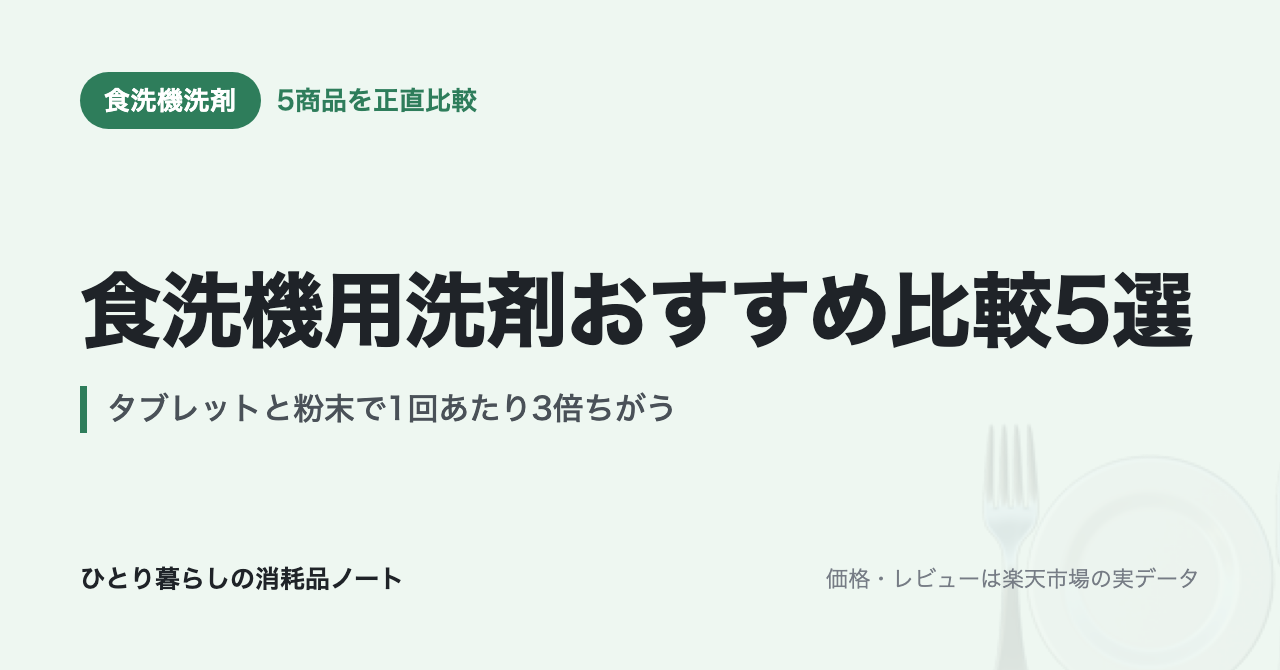
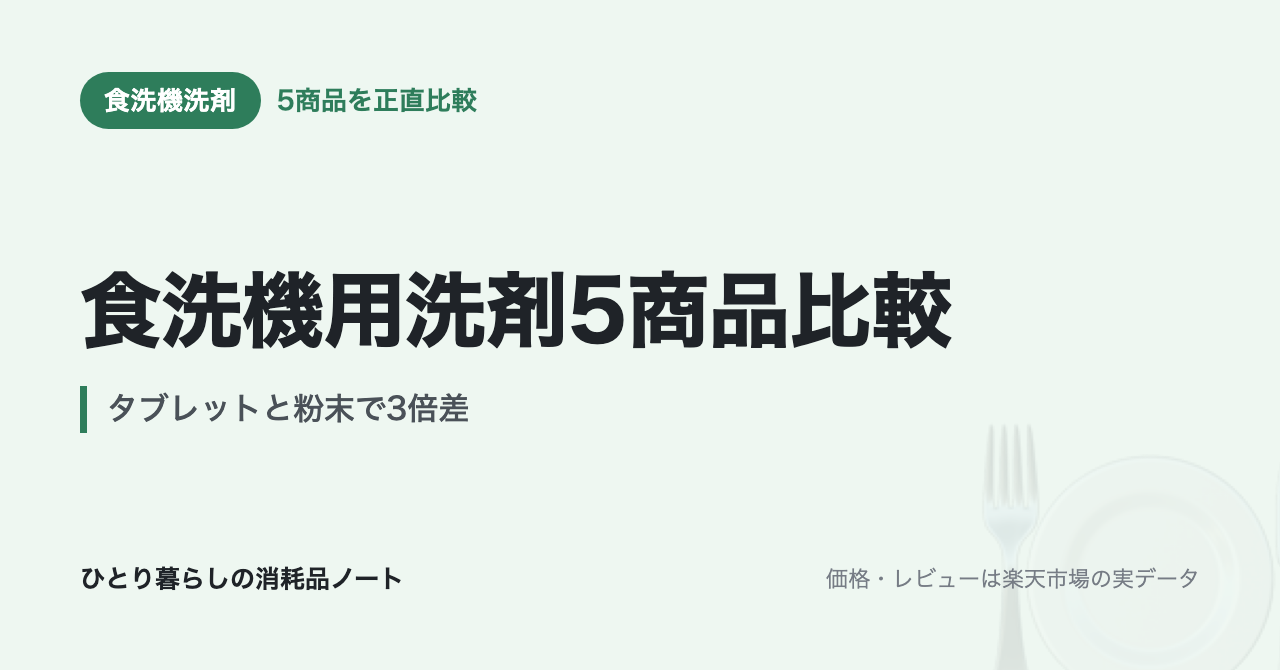
検査を2本立てにし、長すぎたタイトル7本を32字以内に詰める
AI感についての動画を見て、自分の記事を数え直した。分かったのは、問題が
個々の文ではなく均一さにあること。20本が同じ骨格・同じリズム・同じ強調密度で
書かれていた。

  「よくある質問」        20/20記事
  「この記事が役に立たない人」 19/20記事
  太字            平均9.0回/1000字（111字に1回）
  文末「…ります。」      16.8%（6文に1回が同じ終わり方）

「この記事が役に立たない人」は外部の添削で長所として評価された節だが、
19本に並んだ時点で誠実さの印ではなく型の印になっている。

これまでの検査は「言葉を探す検査」だけだった。アスタリスクの露出は1文で
判定できるが、上の4つは記事をまたいで数えないと見えない。そこで検査を
2本立てにした。

  1) 言葉を探す検査 … 落ちたらビルドを止める
       アスタリスクの露出／タイトル32字超
  2) 全体を数える検査 … 割合を出して警告する
       太字の密度／文末の偏り／「AではなくB」の型／見出しの使い回し／
       タイトルの数より比較表が少ない

タイトル32字はこれまで守れていない記事が7本あった。警告を出すだけでは
意味がないので先に直し、そのうえでエラーに格上げした。中身と数が
食い違っていないか、比較表と突き合わせてから変えている。

表の行数チェックは最初3件とも誤検出だった（プラン別・解約時期別の表を
拾っていた）。ルールごと消さず、「タイトルの数より表が少ないとき」だけに狭めた。
なお行数が合っていても中身が合っているとは限らない。「マウスウォッシュ6商品」と
書いて洗口液3＋フロス3を並べていたときは、行数は6で合っていた。

警告はルールごとにまとめ、悪い順に3件だけ出す。全部並べると40行を超えて
読まれなくなる。

Changed region(s): [[0.4375, 0.3881, 0.9375, 0.5373], [0.2812, 0.5672, 0.5312, 0.6269]]

diff --git a/pins/POST.md b/pins/POST.md
@@ -85,7 +85,7 @@
 
 ---
 
-## ドリップコーヒーおすすめ比較6選｜1杯あたりコストで選ぶ在宅ワークの一杯
+## ドリップコーヒー6商品比較｜1杯32円〜65円
 
 - ボード: **おうちコーヒー**
 - リンク先: https://hitorikurashi-note.vercel.app/articles/coffee-drip
@@ -94,11 +94,11 @@
 
 **タイトル**
 ```
-ドリップコーヒー 5件の1杯あたりコスト一覧
+ドリップコーヒー6商品比較 5件の1杯あたりコスト一覧
 ```
 **説明文**
 ```
-ドリップコーヒーを1杯あたりコストの安い順に並べました。UCC 職人の珈琲 スペシャルブレンド 約32円／澤井珈琲 2種飲み比べ 100袋 約44円／カフェ工房 有機栽培コーヒー 130袋 約46円／キーコーヒー ドリップオン 120杯分 約53円／辻本珈琲 デカフェ 3種100杯…。実際の価格とレビューをもとに比較しています。#ドリップコーヒー #おうちカフェ #在宅ワーク #コーヒー #節約
+ドリップコーヒー6商品比較を1杯あたりコストの安い順に並べました。UCC 職人の珈琲 スペシャルブレンド 約32円／澤井珈琲 2種飲み比べ 100袋 約44円／カフェ工房 有機栽培コーヒー 130袋 約46円／キーコーヒー ドリップオン 120杯分 約53円／辻本珈琲 デカフェ 3…。実際の価格とレビューをもとに比較しています。#ドリップコーヒー #おうちカフェ #在宅ワーク #コーヒー #節約
 ```
 
 ### [ ] 価格訴求（画像: `pins/coffee-drip-price.png`）
@@ -205,7 +205,7 @@
 
 ---
 
-## 食洗機用洗剤おすすめ比較5選｜タブレットと粉末で1回あたり3倍ちがう
+## 食洗機用洗剤5商品比較｜タブレットと粉末で3倍差
 
 - ボード: **キッチンの時短**
 - リンク先: https://hitorikurashi-note.vercel.app/articles/dishwasher-detergent
@@ -214,11 +214,11 @@
 
 **タイトル**
 ```
-食洗機用洗剤 4件の1回あたりコスト一覧
+食洗機用洗剤5商品比較 4件の1回あたりコスト一覧
 ```
 **説明文**
 ```
-食洗機用洗剤を1回あたりコストの安い順に並べました。ecostore オートディッシュウォッシュ パウダー 2kg 約7円／キュキュット 食洗機専用 粉末 800g×3 約8円／フィニッシュ ビッグパック 150個×3袋 約12円／フィニッシュ オールインワン 94個×2袋 約23円。実際の価格とレビューをもとに比較しています。#食洗機 #食洗機用洗剤 #時短家事 #キッチン #一人暮らし
+食洗機用洗剤5商品比較を1回あたりコストの安い順に並べました。ecostore オートディッシュウォッシュ パウダー 2kg 約7円／キュキュット 食洗機専用 粉末 800g×3 約8円／フィニッシュ ビッグパック 150個×3袋 約12円／フィニッシュ オールインワン 94個×2袋 約…。実際の価格とレビューをもとに比較しています。#食洗機 #食洗機用洗剤 #時短家事 #キッチン #一人暮らし
 ```
 
 ### [ ] 価格訴求（画像: `pins/dishwasher-detergent-price.png`）
@@ -229,7 +229,7 @@
 ```
 **説明文**
 ```
-食洗機用洗剤1回7円〜23円｜高いほうがよく落ちるわけではない。粉末は1回 約7〜8円。タブレットは 約12〜23円。差はほぼ「手間を省く分」。 実際の価格とレビューをもとに5商品を比較しました。#食洗機 #食洗機用洗剤 #時短家事 #キッチン #一人暮らし
+食洗機用洗剤1回7円〜23円｜高いほうがよく落ちるわけではない。粉末は1回 約7〜8円。タブレットは 約12〜23円。差はほぼ「手間を省く分」。 実際の価格とレビューをもとに6商品を比較しました。#食洗機 #食洗機用洗剤 #時短家事 #キッチン #一人暮らし
 ```
 
 ### [ ] 比較訴求（画像: `pins/dishwasher-detergent-compare.png`）
@@ -240,12 +240,12 @@
 ```
 **説明文**
 ```
-食洗機用洗剤5商品を正直比較｜フィニッシュ・キュキュット・ecostoreほか。1回あたりコストで比較。タブレットと粉末の違いも解説。向かない人も書いています。 実際の価格とレビューをもとに5商品を比較しました。#食洗機 #食洗機用洗剤 #時短家事 #キッチン #一人暮らし
+食洗機用洗剤5商品を正直比較｜フィニッシュ・キュキュット・ecostoreほか。1回あたりコストで比較。タブレットと粉末の違いも解説。向かない人も書いています。 実際の価格とレビューをもとに6商品を比較しました。#食洗機 #食洗機用洗剤 #時短家事 #キッチン #一人暮らし
 ```
 
 ---
 
-## 電動歯ブラシの替えブラシ比較6選｜同じ純正でも1本あたり3倍ちがう
+## 電動歯ブラシ替えブラシ6商品比較｜純正でも3倍差
 
 - ボード: **オーラルケアの選び方**
 - リンク先: https://hitorikurashi-note.vercel.app/articles/toothbrush-head
@@ -254,11 +254,11 @@
 
 **タイトル**
 ```
-電動歯ブラシの替えブラシ 6件の1本あたりコスト一覧
+電動歯ブラシ替えブラシ6商品比較 6件の1本あたりコスト一覧
 ```
 **説明文**
 ```
-電動歯ブラシの替えブラシを1本あたりコストの安い順に並べました。ソニッケアー ダイヤモンドクリーンミニ 互換 16本 約202円／ブラウン オーラルB EB50RX-10 マルチアクション 10本 約428円／パナソニック ドルツ EW0800-W 極細毛 6本 約450円／…。実際の価格とレビューをもとに比較しています。#電動歯ブラシ #替えブラシ #オーラルB #ソニッケアー #オーラルケア
+電動歯ブラシ替えブラシ6商品比較を1本あたりコストの安い順に並べました。ソニッケアー ダイヤモンドクリーンミニ 互換 16本 約202円／ブラウン オーラルB EB50RX-10 マルチアクション 10本 約428円／パナソニック ドルツ EW0800-W 極細毛 6本 約4…。実際の価格とレビューをもとに比較しています。#電動歯ブラシ #替えブラシ #オーラルB #ソニッケアー #オーラルケア
 ```
 
 ### [ ] 価格訴求（画像: `pins/toothbrush-head-price.png`）
@@ -325,7 +325,7 @@
 
 ---
 
-## 歯磨き粉おすすめ比較6選｜1回2.7円と21.9円、差はフッ素の量ではなかった
+## 歯磨き粉6商品比較｜1回2.7円と21.9円、差はフッ素ではない
 
 - ボード: **オーラルケアの選び方**
 - リンク先: https://hitorikurashi-note.vercel.app/articles/toothpaste
@@ -334,11 +334,11 @@
 
 **タイトル**
 ```
-歯磨き粉 6件の1回あたりコスト一覧
+歯磨き粉6商品比較 6件の1回あたりコスト一覧
 ```
 **説明文**
 ```
-歯磨き粉を1回あたりコストの安い順に並べました。クリニカ アドバンテージ クールミント 130g×3 約2.7円／ガム デンタルペースト 120g×3 約3.3円／クリアクリーン プレミアム 美白 160g×3 約6.5円／シュミテクト 歯周病ケア 100g×5 約8.0円／コンクール …。実際の価格とレビューをもとに比較しています。#歯磨き粉 #ハミガキ #オーラルケア #フッ素 #一人暮らし
+歯磨き粉6商品比較を1回あたりコストの安い順に並べました。クリニカ アドバンテージ クールミント 130g×3 約2.7円／ガム デンタルペースト 120g×3 約3.3円／クリアクリーン プレミアム 美白 160g×3 約6.5円／シュミテクト 歯周病ケア 100g×5 約8.0円／コ…。実際の価格とレビューをもとに比較しています。#歯磨き粉 #ハミガキ #オーラルケア #フッ素 #一人暮らし
 ```
 
 ### [ ] 価格訴求（画像: `pins/toothpaste-price.png`）
@@ -405,7 +405,7 @@
 
 ---
 
-## 洗濯槽クリーナー比較6選｜洗剤を変えても臭うなら、原因は槽のほうかもしれない
+## 洗濯槽クリーナー6商品比較｜1回183円と1,550円
 
 - ボード: **一人暮らしの洗濯・柔軟剤えらび**
 - リンク先: https://hitorikurashi-note.vercel.app/articles/washer-cleaner
@@ -414,11 +414,11 @@
 
 **タイトル**
 ```
-洗濯槽クリーナー 6件の1回あたりコスト一覧
+洗濯槽クリーナー6商品比較 6件の1回あたりコスト一覧
 ```
 **説明文**
 ```
-洗濯槽クリーナーを1回あたりコストの安い順に並べました。過炭酸ナトリウム 3kg×3個 約183円／カビキラー 洗たく槽カビキラー 550g×10本 約360円／オキシクリーン 洗濯槽クリーナー 80g×4包 約446円／四国化成 WASHMANIA 200g×3包 約842円／シャ…。実際の価格とレビューをもとに比較しています。#洗濯槽クリーナー #洗濯槽 #部屋干し #生乾き臭 #一人暮らし
+洗濯槽クリーナー6商品比較を1回あたりコストの安い順に並べました。過炭酸ナトリウム 3kg×3個 約183円／カビキラー 洗たく槽カビキラー 550g×10本 約360円／オキシクリーン 洗濯槽クリーナー 80g×4包 約446円／四国化成 WASHMANIA 200g×3包 約84…。実際の価格とレビューをもとに比較しています。#洗濯槽クリーナー #洗濯槽 #部屋干し #生乾き臭 #一人暮らし
 ```
 
 ### [ ] 価格訴求（画像: `pins/washer-cleaner-price.png`）
@@ -445,7 +445,7 @@
 
 ---
 
-## ウォーターサーバー比較3選｜1日1Lが、定額と都度払いの分かれ目だった
+## ウォーターサーバー3社比較｜分かれ目は1日1L
 
 - ボード: **浄水器・水まわり**
 - リンク先: https://hitorikurashi-note.vercel.app/articles/water-server
@@ -469,7 +469,7 @@
 ```
 **説明文**
 ```
-ウォーターサーバー分かれ目は1日1L前後｜定額と都度払いで順位が入れ替わる。計算すると1日0.89L〜1.07L。料理にも使うならすぐ超える。電気代は年4,800〜14,400円。 実際の価格とレビューをもとに3商品を比較しました。#ウォーターサーバー #宅配水 #天然水 #一人暮らし #節約
+ウォーターサーバー分かれ目は1日1L前後｜定額と都度払いで順位が入れ替わる。計算すると1日0.89L〜1.07L。料理にも使うならすぐ超える。電気代は年4,800〜14,400円。 実際の価格とレビューをもとに6商品を比較しました。#ウォーターサーバー #宅配水 #天然水 #一人暮らし #節約
 ```
 
 ### [ ] 比較訴求（画像: `pins/water-server-compare.png`）
@@ -480,7 +480,7 @@
 ```
 **説明文**
 ```
-ウォーターサーバー3社を正直比較｜富士おいしい水・フレシャス・アクアバンク。年間コストは飲む量で逆転する。初期費用と解約費用も記載。浄水器で足りる人も書いています。 実際の価格とレビューをもとに3商品を比較しました。#ウォーターサーバー #宅配水 #天然水 #一人暮らし #節約
+ウォーターサーバー3社を正直比較｜富士おいしい水・フレシャス・アクアバンク。年間コストは飲む量で逆転する。初期費用と解約費用も記載。浄水器で足りる人も書いています。 実際の価格とレビューをもとに6商品を比較しました。#ウォーターサーバー #宅配水 #天然水 #一人暮らし #節約
 ```
 
 ---
@@ -525,7 +525,7 @@
 
 ---
 
-## 動画配信5サービス比較｜3本契約すると年4万円だった
+## 動画配信5サービス比較｜乗り換えできないのは1つだけ
 
 - ボード: **一人暮らしの固定費**
 - リンク先: https://hitorikurashi-note.vercel.app/articles/video-streaming
@@ -725,7 +725,7 @@
 
 ---
 
-## 浄水型ウォーターサーバー3社比較｜途中解約まで含めた総額を計算した
+## 浄水型ウォーターサーバー3社比較｜途中解約まで計算
 
 - ボード: **浄水器・水まわり**
 - リンク先: https://hitorikurashi-note.vercel.app/articles/water-purifier-server

diff --git a/content/water-purifier-server.md b/content/water-purifier-server.md
@@ -1,13 +1,13 @@
 ---
-title: "浄水型ウォーターサーバー3社比較｜途中解約まで含めた総額を計算した"
-description: "水道水を注いで使う浄水型ウォーターサーバー3社を、月額・初期費用・解約金・契約期間で比較。Locca・エブリィフレシャス・アクアバンクを使った年数ごとの総額で並べ直したところ、契約が長いプランのほうが安く済む区間がありました。"
-category: "ウォーターサーバー"
-date: "2026-08-18"
-updated: "2026-08-18"
-# 月額だけを見ると誤解を招く記事なので、カードには月額の幅を出す
-costLabel: "月額"
-costMin: "2,380円"
-costMax: "4,378円"
+title: 浄水型ウォーターサーバー3社比較｜途中解約まで計算
+description: >-
+  水道水を注いで使う浄水型ウォーターサーバー3社を、月額・初期費用・解約金・契約期間で比較。Locca・エブリィフレシャス・アクアバンクを使った年数ごとの総額で並べ直したところ、契約が長いプランのほうが安く済む区間がありました。
+category: ウォーターサーバー
+date: '2026-08-18'
+updated: '2026-08-18'
+costLabel: 月額
+costMin: '2,380円'
+costMax: '4,378円'
 ---
 
 浄水型のウォーターサーバーは、**水を買わないタイプ**です。水道水を自分で注ぎ、サーバー側のカートリッジで浄水して飲みます。ボトルの配送も、玄関先の在庫も、重い持ち上げもありません。

diff --git a/content/washer-cleaner.md b/content/washer-cleaner.md
@@ -1,9 +1,10 @@
 ---
-title: "洗濯槽クリーナー比較6選｜洗剤を変えても臭うなら、原因は槽のほうかもしれない"
-description: "洗濯槽クリーナー6商品を比較。塩素系と酸素系の違い、1回あたりコスト、ドラム式対応を実データで整理しました。部屋干しの生乾き臭が洗剤を変えても消えない人向けに、選び方と使う頻度も解説します。"
-category: "洗濯槽クリーナー"
-date: "2026-08-10"
-updated: "2026-08-16"
+title: '洗濯槽クリーナー6商品比較｜1回183円と1,550円'
+description: >-
+  洗濯槽クリーナー6商品を比較。塩素系と酸素系の違い、1回あたりコスト、ドラム式対応を実データで整理しました。部屋干しの生乾き臭が洗剤を変えても消えない人向けに、選び方と使う頻度も解説します。
+category: 洗濯槽クリーナー
+date: '2026-08-10'
+updated: '2026-08-16'
 ---
 
 洗剤を部屋干し用に替えて、柔軟剤も消臭タイプにして、それでも取り込んだ洗濯物がかすかに臭う。そういうときに残っている容疑者が洗濯槽です。洗った直後の服に、槽の裏側にたまった皮脂汚れやカビの菌が付き直しているケースがあります。

diff --git a/content/coffee-drip.md b/content/coffee-drip.md
@@ -1,9 +1,10 @@
 ---
-title: "ドリップコーヒーおすすめ比較6選｜1杯あたりコストで選ぶ在宅ワークの一杯"
-description: "自宅用ドリップコーヒーのおすすめ6商品を比較。1杯あたりコスト・味の傾向・容量を正直レビュー。カフェ代を抑えつつ在宅ワークの一杯を充実させたい人向けに選び方も解説します。"
-category: "コーヒー"
-date: "2026-08-01"
-updated: "2026-08-16"
+title: ドリップコーヒー6商品比較｜1杯32円〜65円
+description: >-
+  自宅用ドリップコーヒーのおすすめ6商品を比較。1杯あたりコスト・味の傾向・容量を正直レビュー。カフェ代を抑えつつ在宅ワークの一杯を充実させたい人向けに選び方も解説します。
+category: コーヒー
+date: '2026-08-01'
+updated: '2026-08-16'
 ---
 
 市販のドリップコーヒー（ドリップバッグ）は種類が多く、大容量セットだけでも選択肢が山ほどあります。「安いものは味が心配」「でも毎日飲むならコスパも大事」——この両立で迷う人は多いはずです。

diff --git a/content/toothpaste.md b/content/toothpaste.md
@@ -1,9 +1,10 @@
 ---
-title: "歯磨き粉おすすめ比較6選｜1回2.7円と21.9円、差はフッ素の量ではなかった"
-description: "歯磨き粉6商品を1回あたりコストで比較。フッ素濃度・研磨剤の有無・目的別の選び方を実データで整理しました。毎日2回使うのに選ぶ基準がわからない人向けに、値段の差が何から来ているかを解説します。"
-category: "歯磨き粉"
-date: "2026-08-14"
-updated: "2026-08-16"
+title: 歯磨き粉6商品比較｜1回2.7円と21.9円、差はフッ素ではない
+description: >-
+  歯磨き粉6商品を1回あたりコストで比較。フッ素濃度・研磨剤の有無・目的別の選び方を実データで整理しました。毎日2回使うのに選ぶ基準がわからない人向けに、値段の差が何から来ているかを解説します。
+category: 歯磨き粉
+date: '2026-08-14'
+updated: '2026-08-16'
 ---
 
 歯磨き粉は、1日2回、365日使います。それなのに「なんとなく安いもの」で選んでいる人が多いはずです。私もそうでした。

diff --git a/content/water-server.md b/content/water-server.md
@@ -1,5 +1,5 @@
 ---
-title: ウォーターサーバー比較3選｜1日1Lが、定額と都度払いの分かれ目だった
+title: ウォーターサーバー3社比較｜分かれ目は1日1L
 description: >-
   ウォーターサーバー3社を年間コストで比較。水道水を注ぐ定額型とボトル配送型で、飲む量によって順位が入れ替わります。電気代・初期費用・解約費用まで含めて、一人暮らしの実際の負担を計算しました。
 category: ウォーターサーバー

diff --git a/content/toothbrush-head.md b/content/toothbrush-head.md
@@ -1,5 +1,5 @@
 ---
-title: 電動歯ブラシの替えブラシ比較6選｜同じ純正でも1本あたり3倍ちがう
+title: 電動歯ブラシ替えブラシ6商品比較｜純正でも3倍差
 description: >-
   電動歯ブラシの替えブラシ6商品を比較。1本あたりコスト・純正と互換の違い・対応機種を正直レビュー。オーラルB、ソニッケアー、ドルツの交換コストを実データで計算しました。
 category: 替えブラシ

diff --git a/content/dishwasher-detergent.md b/content/dishwasher-detergent.md
@@ -1,5 +1,5 @@
 ---
-title: 食洗機用洗剤おすすめ比較5選｜タブレットと粉末で1回あたり3倍ちがう
+title: 食洗機用洗剤5商品比較｜タブレットと粉末で3倍差
 description: >-
   食洗機用洗剤のおすすめ5商品を比較。1回あたりコスト・タブレットと粉末の違い・庫内のにおい対策を正直レビュー。手間とコストのどちらを取るかで選び方が変わります。
 category: 食洗機洗剤
